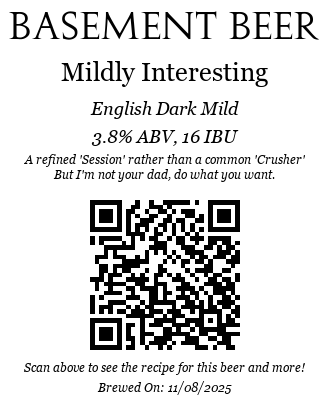
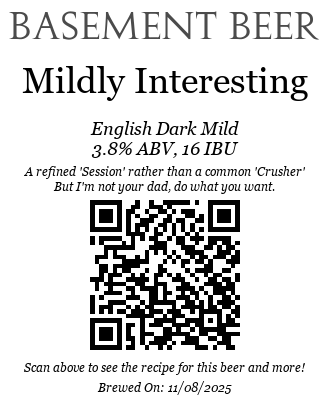
Locking In Mild Label

diff --git a/qr_code_generator.py b/qr_code_generator.py
@@ -1,11 +1,11 @@
 import qrcode
-from PIL import Image, ImageFont, ImageDraw
+from PIL import Image, ImageFont, ImageDraw, ImageOps
 
 def make_label(output_file: str, name: str, style: str, abv: float, ibu: int, guest_recipe: bool = False, brew_date: str = "", flavor_text: str = None, url: str = None):
     HEIGHT = 400
     WIDTH = int(HEIGHT * 0.825)
     BLACK= (0, 0, 0)
-    LOGO_COLOR = (92, 75, 63)
+    LOGO_COLOR = (75, 75, 75)
 
     # Make QR Code an save
     if url:
@@ -23,19 +23,19 @@ def make_label(output_file: str, name: str, style: str, abv: float, ibu: int, gu
         qr = qr.resize((150, 150), Image.Resampling.NEAREST)
 
     # Write Text
-    tfont = ImageFont.truetype("./georgia.ttf", size=26)
+    tfont = ImageFont.truetype("./georgia.ttf", size=36)
     ifont = ImageFont.truetype("./georgiai.ttf", size=18)
     gfont = ImageFont.truetype("./georgiai.ttf", size=12)
     lfont = ImageFont.truetype("./AUGUSTUS.TTF", size=36)
     d = ImageDraw.Draw(lbl)
-    d.text((WIDTH * 0.5, HEIGHT * 0.07), "BASEMENT BEER", fill=BLACK, anchor="mm", align="center", font=lfont)
-    d.text((WIDTH * 0.5, HEIGHT * 0.18), name, fill=BLACK, anchor="mm", align="center", font=tfont)
-    d.text((WIDTH * 0.5, HEIGHT * 0.27), style, fill=BLACK, anchor="mm", align="center", font=ifont)
-    d.text((WIDTH * 0.5, HEIGHT * 0.34), f"{abv}% ABV, {ibu} IBU", fill=BLACK, anchor="mm", align="center", font=ifont)
+    d.text((WIDTH * 0.5, HEIGHT * 0.07), "BASEMENT BEER", fill=LOGO_COLOR, anchor="mm", align="center", font=lfont)
+    d.text((WIDTH * 0.5, HEIGHT * 0.20), name, fill=BLACK, anchor="mm", align="center", font=tfont)
+    d.text((WIDTH * 0.5, HEIGHT * 0.32), style, fill=BLACK, anchor="mm", align="center", font=ifont)
+    d.text((WIDTH * 0.5, HEIGHT * 0.37), f"{abv}% ABV, {ibu} IBU", fill=BLACK, anchor="mm", align="center", font=ifont)
     if guest_recipe:
-        d.text((WIDTH * 0.5, HEIGHT * 0.42), "Note: The recipe for this beer was designed by someone else", fill=BLACK, anchor="mm", align="center", font=gfont)
+        d.text((WIDTH * 0.5, HEIGHT * 0.45), "Note: The recipe for this beer was designed by someone else", fill=BLACK, anchor="mm", align="center", font=gfont)
     elif flavor_text:
-        d.multiline_text((WIDTH * 0.5, HEIGHT * 0.42), flavor_text, fill=BLACK, anchor="mm", align="center", font=gfont)
+        d.multiline_text((WIDTH * 0.5, HEIGHT * 0.45), flavor_text, fill=BLACK, anchor="mm", align="center", font=gfont)
     d.text((WIDTH * 0.5, HEIGHT * 0.97), f"Brewed On: {brew_date}", fill=BLACK, anchor="mm", align="center", font=gfont)
 
     # Write Label
